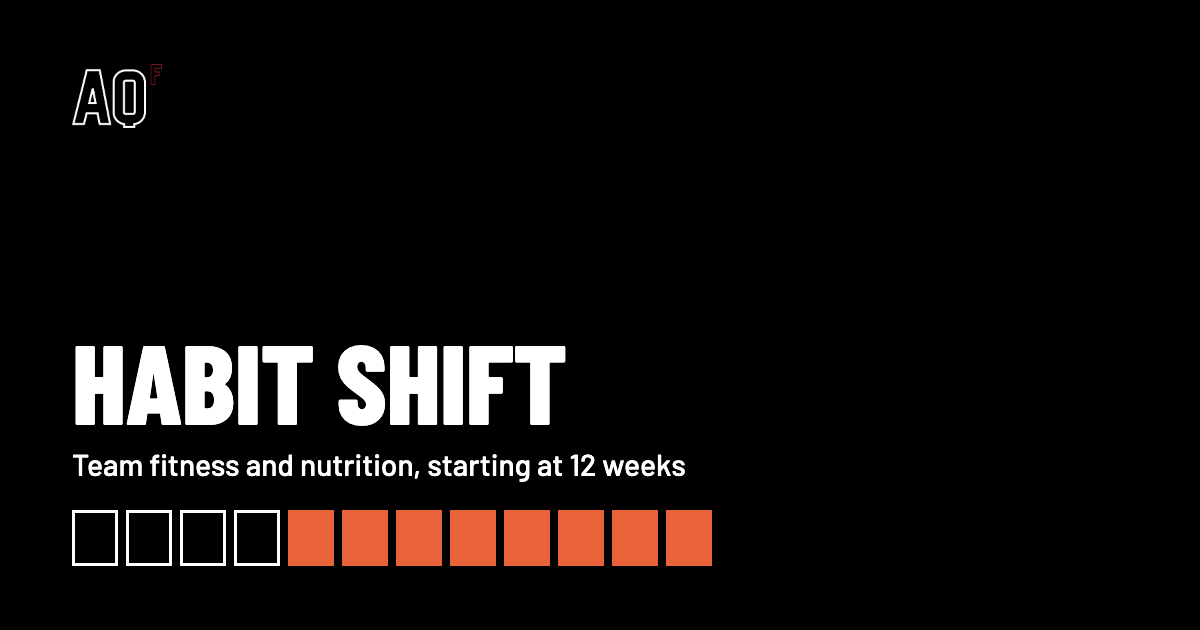
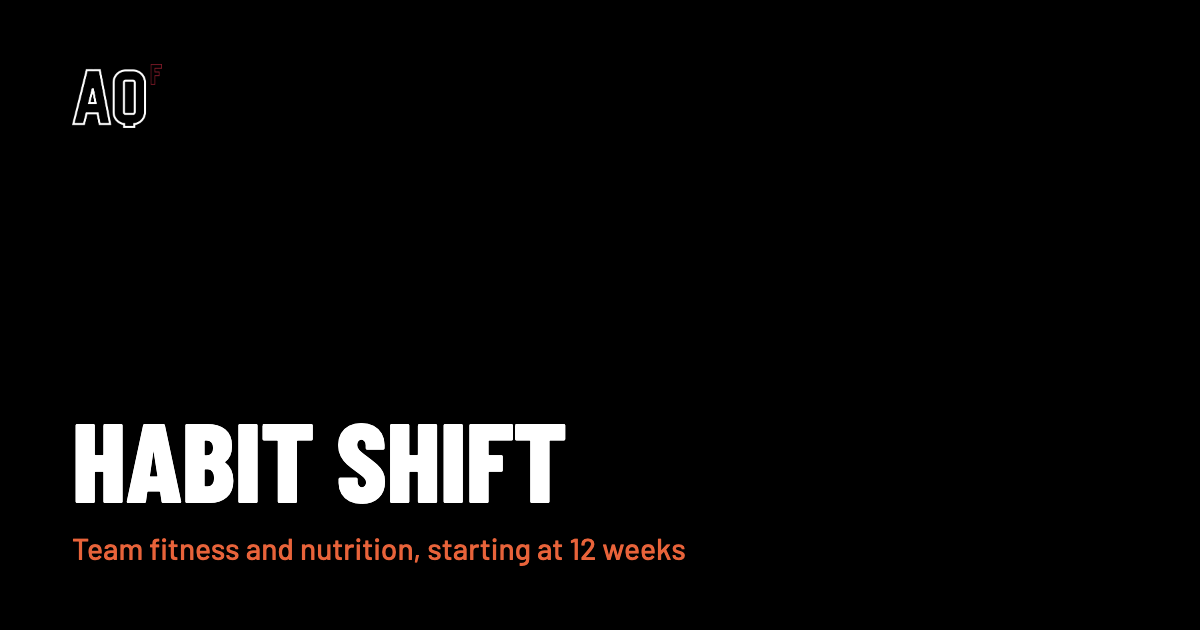
fix: home hero grammar, 30+ audience, remove 12-week strip
- Home subline: "Habit Shift isn't just a wellness initiative. It's a
  business strategy."
- Coaching hero: women 30+ (matches the rest of the site)
- Remove the 12-week strip from the home hero and delete WeekStrip;
  teams OG image drops the week boxes too
- Spec: record decisions (30+, aqfitness.ca) in the revision log

Changed region(s): [[0.0617, 0.5429, 0.6167, 0.9048]]

diff --git a/docs/superpowers/specs/2026-09-24-aqfitness-website-design.md b/docs/superpowers/specs/2026-09-24-aqfitness-website-design.md
@@ -110,8 +110,8 @@ All 6 blog posts keep their old slugs, so `/blogs/news/:slug` maps 1:1.
 The blocks listed for each page come from the named sources. Items marked **[PH]** are placeholders until Alejandro supplies the real content.
 
 ### 5.1 Home `/`
-1. **Hero (professional):** "Competitive edge starts with your people." Subline (Alejandro's wording): "We are not just a wellness initiative. It's a business strategy." CTAs: **Book a discovery call** and "How it works ↓". A small link: "Looking for 1:1 coaching? →"
-2. **12-week strip:** the program's 12 weeks as one graphic (Foundation outlined, Momentum in orange), full width under the hero copy. *(Build note: this replaced the planned marquee. "Eat. Train. Live." now appears as large type in the footer, which keeps motion to a minimum.)*
+1. **Hero (professional):** "Competitive edge starts with your people." Subline: "Habit Shift isn't just a wellness initiative. It's a business strategy." CTAs: **Book a discovery call** and "How it works ↓". A small link: "Looking for 1:1 coaching? →"
+2. ~~**12-week strip**~~ *(Removed 2026-09-25 at the client's request, along with the `WeekStrip` component. It had replaced the planned marquee; "Eat. Train. Live." stays as large type in the footer.)*
 3. **The problem:** 3 verified stats with source links.
 4. **Three pillars:** Movement · Nutrition · Recovery (from the deck).
 5. **How the 12 weeks work:** a condensed timeline (Foundation 1–4, then Momentum 5–12), linking to `/teams/`.
@@ -145,7 +145,7 @@ Alejandro wants this page to stay big picture; he covers the details on the disc
 9. **CTA:** Book a discovery call, with a company-inquiry form as the alternative.
 
 ### 5.3 1:1 Coaching `/coaching/` (source: old About + FAQ)
-1. **Hero (friendly, text only, no photo):** Alejandro's subtitle, "1:1 coaching for women 35+ who want to feel stronger, leaner, and more confident…". CTA: **Book a free consult**.
+1. **Hero (friendly, text only, no photo):** Alejandro's subtitle, "1:1 coaching for women 30+ who want to feel stronger, leaner, and more confident…". CTA: **Book a free consult**.
 2. **Who it's for:** "Built for moms who put everyone else first", in Alejandro's words (women 30+, momma bears, "Ready to stop starting over?").
 3. **Two options:** *Online coaching* and *Nutrition coaching* share one list of what's included; online coaching adds the training plan and exercise video reviews. "Pricing shared on your free consult."
 4. **How it works:** a real sequence: free consult → your plan → weekly check-ins (not just weight: energy, sleep, stress, performance) → adjust using the check-in data, and keep going.
@@ -250,7 +250,6 @@ All components are `.astro`. JavaScript appears only where marked JS.
 | `Header` / `MobileMenu` (JS: toggle) | all | Sticky, compact on scroll (CSS only) |
 | `Footer` + `NewsletterForm` | all | Netlify form `newsletter` |
 | `Hero` (variants: performance, coaching, simple) | pages | Optional B&W photo with a gradient scrim |
-| `WeekStrip` (compact / full) | home, teams | The signature 12-week graphic |
 | `StatBlock` / `StatRow` | home, teams | Value, label, source link (required) |
 | `PillarCards` | home, teams | 3 up, stacking on mobile |
 | `Timeline12Week` | home (compact), teams (full) | Ordered list, phases, markers |
@@ -442,5 +441,10 @@ repo root
 - `/teams/` trimmed to the big picture (see §5.2). The Trainerize mention in the remote-teams FAQ became "a coaching app". `AppScreens` and the app screenshots were deleted.
 - Pilot results filled in from the pilot PDF; the case-study placeholders are gone.
 - `/coaching/`: hero photo removed; his copy for the hero, "Built for moms…", the two offers and How it works steps 3–4.
-- Open questions for Alejandro: the hero says 35+ while "Built for moms" says 30+; the pilot PDF footer says aquamfitness.com while the site assumes aqfitness.ca.
+- Resolved: the 1:1 audience is women **30+** everywhere, and the domain is **aqfitness.ca** (the pilot PDF's aquamfitness.com was wrong).
+
+**2026-09-25, follow-ups**
+- Home hero subline changed to "Habit Shift isn't just a wellness initiative. It's a business strategy." This fixes the grammar and puts the program name back on the home hero.
+- The 12-week strip was removed from the home hero. `WeekStrip` was deleted, and the teams share image no longer shows the week boxes.
+- Program snapshot: "12+ weeks minimum; programs can run 16, 20 weeks or longer."
 
